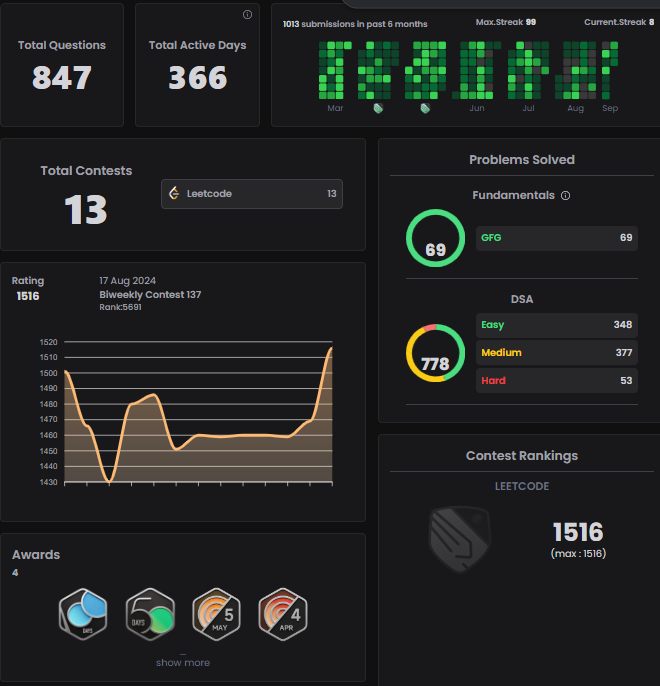
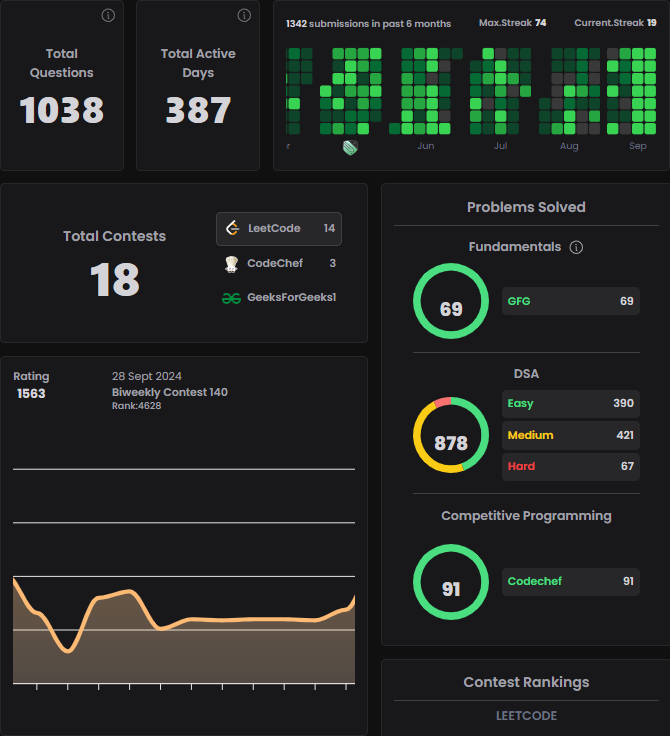
04-010-2024-003

diff --git a/src/Components/Works/WorkPage.jsx b/src/Components/Works/WorkPage.jsx
@@ -16,7 +16,7 @@ const WorkPage = () => {
           <CardsPage src={"./images/Works/educome.png"} gitHub={"https://github.com/Abhinavrajsrivastav/pacifics-path"} name={"Educome"} about={"A platform for engineers. Google Gemini Competition - 2024"} link={"https://abhinavrajsrivastav.github.io/pacifics-path/"} toolImg={["./FavIcon.png"]} tech={["React", "GCP", "Gemini 1.5", "Firebase","MySql"]}  className="animated" />
           <CardsPage src={"./images/Works/AyodhayaDham.png"} gitHub={"https://github.com/Abhinavrajsrivastav/ADHM"} name={"Ayodhya Dham"} about={"Ayodhya Dham, is a tour guide website. Help you to make your Ayodhya visit comfortable and safe."} link={"https://ayodhyadham.vercel.app/"} toolImg={["react.png"]} tech={["React","Google cloud console","Javascript"]}/>
           <CardsPage src={"./images/Works/hindi.png"} gitHub={"https://github.com/Abhinavrajsrivastav/React-Projects/tree/master/Musics/hinlish"} name={"HindLish"} about={"Hindlish, is a Musics player with some of the best Hindi and English songs"} link={"https://healsync.onrender.com/"} toolImg={["react.png"]} tech={["React"]}/>
-          <CardsPage src={"./images/Works/EduCloud.png"} gitHub={"https://github.com/Abhinavrajsrivastav/cloud-octo-eureka"} name={"EduCloud"} about={"A Cloud Based Solution For Your All Works."} link={""} toolImg={["react.png", "leaf.png"]} tech={["React","Spring Boot"]}/>
+          <CardsPage src={"./images/Works/columbae.png"} gitHub={"https://github.com/Abhinavrajsrivastav/cloud-octo-eureka"} name={"Columbae"} about={"An Interview Dashboard...working"} link={""} toolImg={["react.png", "leaf.png"]} tech={["React","Spring Boot"]}/>
           <CardsPage src={"./images/Works/yts.png"} gitHub={"https://github.com/Abhinavrajsrivastav/SpringBootProjects/tree/main/moviefinder"} name={"Movie Finder"} about={"Improving YouTube-Search Search Responses, Enhance user experiences"} link={"https://www.linkedin.com/posts/abhinav-raj-srivastav-599aaa1b2_springboot-javascripts-java-activity-7155206688197758977-9tIt?utm_source=share&utm_medium=member_desktop"} toolImg={["react.png", "leaf.png"]} tech={["React","Spring Boot"]}/>
           <CardsPage src={"./images/Works/gemini.png"} gitHub={"https://github.com/Abhinavrajsrivastav/SpringBootProjects/tree/main/OpenAi"} name={"Gemini Ai Clone"} about={"UI and functionality Google Gemini clone"} link={"https://clone-gemini.vercel.app/"} toolImg={["chat-gpt.png", "react.png", "leaf.png"]} tech={["React","Spring Boot"]}/>
           <CardsPage src={"./images/Works/Better_Health.png"} gitHub={"https://github.com/Abhinavrajsrivastav/Multi-Step-Forms"} name={"Better Health"} about={"Get a quick with health checkup with, Quiz App."} link={"http://quiz-app-health-01.s3-website.ap-south-1.amazonaws.com/"} toolImg={["react.png"]} tech={["React"]}/>

diff --git a/src/Components/Home/Home.css b/src/Components/Home/Home.css
@@ -81,7 +81,7 @@
 .Profession p {
   padding: 5px;
   font-size: 13px;
-  background-color: #1174aa;
+  background-color: #3169f6f7;
   border-radius: 2px;
 }
 
@@ -127,7 +127,7 @@
   border: none;
   color: #fff;
   cursor: pointer;
-  background-color: #1174aa;
+  background-color: #3169f6f7;
   transition: all 0.2s ease;
 
 }
@@ -152,13 +152,13 @@
   top: -70%;
   background-image: radial-gradient(circle, rgb(9, 55, 135) 20%, transparent 20%),
     radial-gradient(circle, transparent 20%, rgb(4, 33, 78) 20%, transparent 30%),
-    radial-gradient(circle, rgb(6, 79, 119) 20%, transparent 20%),
-    radial-gradient(circle, rgb(21, 43, 142) 20%, transparent 20%),
-    radial-gradient(circle, transparent 10%, rgb(14, 73, 140) 15%, transparent 20%),
-    radial-gradient(circle, rgb(18, 95, 202) 20%, transparent 20%),
-    radial-gradient(circle, rgb(18, 85, 202) 20%, transparent 20%),
-    radial-gradient(circle, rgb(18, 89, 202) 20%, transparent 20%),
-    radial-gradient(circle, rgb(18, 85, 202) 20%, transparent 20%);
+    radial-gradient(circle, rgb(34, 65, 223) 20%, transparent 20%),
+    radial-gradient(circle, rgb(13, 36, 140) 20%, transparent 20%),
+    radial-gradient(circle, transparent 10%, rgb(14, 45, 140) 15%, transparent 20%),
+    radial-gradient(circle, rgb(7, 34, 171) 20%, transparent 20%),
+    radial-gradient(circle, rgb(1, 21, 137) 20%, transparent 20%),
+    radial-gradient(circle, rgb(7, 22, 152) 20%, transparent 20%),
+    radial-gradient(circle, rgb(8, 26, 113) 20%, transparent 20%);
   background-size: 10% 10%, 20% 20%, 15% 15%, 20% 20%, 18% 18%, 10% 10%, 15% 15%,
     10% 10%, 18% 18%;
   background-position: 50% 120%;

diff --git a/src/Data/AchiementData.jsx b/src/Data/AchiementData.jsx
@@ -7,7 +7,7 @@ const AchiementData = () => {
             gitHub: "",
             org: "",
             name: "Leetcode",
-            about: "Rating 1516+ ✨",
+            about: "Rating 1564+ ✨",
             link: "https://leetcode.com/Abhinav254/",
             techs: ["Java", "DSA", "Competitive Programming", "C", "Coding Contest"]
         },
@@ -34,7 +34,7 @@ const AchiementData = () => {
             gitHub: "",
             org: "",
             name: "GeeksForGeeks",
-            about: "🏆 Institution Rank 27 | 1615+ Rating | 3 ⭐",
+            about: "🏆 Institution Rank 27 | 1670+ Rating | 3 ⭐",
             link: "https://auth.geeksforgeeks.org/user/abhirajsrivast254",
             techs: ["Java", "DSA", "Competitive Programming", "C", "Coding Contest"]
         },
@@ -48,11 +48,11 @@ const AchiementData = () => {
             techs: ["Java", "DSA", "Competitive Programming", "C", "Problem Solving", "SQL", "Python"]
         },
         {
-            src: "./images/Achivements/leetcode100days.png",
+            src: "./images/Achivements/leetcode200days.png",
             gitHub: "",
             org: "",
             name: "Letcode Badge",
-            about: "First 100 Days at Leetcode ✨",
+            about: "First 200 Days at Leetcode ✨",
             link: "https://leetcode.com/Abhinav254/",
             techs: ["Java", "DSA", "Competitive Programming", "Coding Contest"]
         },

diff --git a/src/Components/Skills/Skills.jsx b/src/Components/Skills/Skills.jsx
@@ -66,15 +66,15 @@ function Skills() {
         </div>
 
         {/* Programming Achievements */}
-        <div className="skills-category">
+        {/* <div className="skills-category">
           <h3>Programming Achievements</h3>
           <ul>
-            <li>LeetCode Max Rating: 1516, 300 Problems Solved</li>
+            <li>LeetCode Max Rating: 1564, 300 Problems Solved</li>
             <li>Geeks for Geeks Rank: 27th, 80+ Days of Challenges</li>
             <li>Open Source Contributions: 1100+ Commits, 49+ Repositories</li>
             <li>800+ Competitive Programming Problems Solved</li>
           </ul>
-        </div>
+        </div> */}
 
       </div>
     </section>

diff --git a/src/Components/Vlogs/Vlogs.css b/src/Components/Vlogs/Vlogs.css
@@ -39,7 +39,7 @@
 }
 
 .Vlog-Text span{
-  color: rgb(8, 64, 103);
+  color: rgb(8, 29, 103);
 }
 
 .Vlog-Cards {
@@ -72,7 +72,7 @@
   left: 0;
   display: block;
   border-radius: 50px;
-  background: rgb(8, 64, 103);
+  background: rgb(8, 41, 103);
   width: 56px;
   height: 56px;
   transition: all 0.3s ease;
@@ -91,7 +91,7 @@
   fill: none;
   stroke-linecap: round;
   stroke-linejoin: round;
-  stroke: rgb(8, 64, 103);
+  stroke: rgb(8, 32, 103);
   stroke-width: 2;
   transform: translateX(-5px);
   transition: all 0.3s ease;
@@ -99,7 +99,7 @@
 
 .Vlog-cta:hover:before {
   width: 100%;
-  background: rgb(8, 64, 103);
+  background: rgb(8, 44, 103);
 }
 
 .Vlog-cta:hover svg {

diff --git a/src/Components/Works/Work.css b/src/Components/Works/Work.css
@@ -39,7 +39,7 @@
 }
 
 .Text span{
-  color: rgb(18, 197, 202);
+  color: rgb(18, 95, 202);
 }
 
 .Cards {
@@ -72,7 +72,7 @@
   left: 0;
   display: block;
   border-radius: 50px;
-  background: rgb(47 110 145);
+  background: rgb(22, 55, 175);
   width: 56px;
   height: 56px;
   transition: all 0.3s ease;
@@ -91,7 +91,7 @@
   fill: none;
   stroke-linecap: round;
   stroke-linejoin: round;
-  stroke: #234567;
+  stroke: #2032ab;
   stroke-width: 2;
   transform: translateX(-5px);
   transition: all 0.3s ease;
@@ -99,7 +99,7 @@
 
 .cta:hover:before {
   width: 100%;
-  background: rgb(47 110 145);
+  background: rgb(28, 74, 166);
 }
 
 .cta:hover svg {

diff --git a/src/Components/OpenSource/OpenSource.css b/src/Components/OpenSource/OpenSource.css
@@ -34,7 +34,7 @@
 }
 
 .Point{
- color: rgb(8, 64, 103);
+ color: rgb(8, 22, 103);
 }
 
 
@@ -58,7 +58,7 @@
   left: 0;
   display: block;
   border-radius: 50px;
-  background: rgb(8, 64, 103);
+  background: rgb(8, 32, 103);
   width: 56px;
   height: 56px;
   transition: all 0.3s ease;
@@ -77,7 +77,7 @@
   fill: none;
   stroke-linecap: round;
   stroke-linejoin: round;
-  stroke: rgb(8, 64, 103);
+  stroke: rgb(8, 44, 103);
   stroke-width: 2;
   transform: translateX(-5px);
   transition: all 0.3s ease;
@@ -85,7 +85,7 @@
 
 .cta:hover:before {
   width: 100%;
-  background: rgb(8, 64, 103);
+  background: rgb(8, 37, 103);
 }
 
 .cta:hover svg {

diff --git a/public/index.css b/public/index.css
@@ -14,10 +14,10 @@ body{
 }
 
 :root{
-  --bg-color: #0e203af7;
-  --bg-hover-color: #112a42f7;
-  --text-color: #1174aa;
-  --text-hover-color: rgb(14, 83, 149);
-  --card-color: #0b3c5af7;
-  --Achievent-color: #097d2df7;
+  --bg-color: #0d1b4df7;
+  --bg-hover-color: #3169f6f7;
+  --text-color: #3167fb;
+  --text-hover-color: rgb(42, 101, 249);
+  --card-color: #122365f7;
+  --Achievent-color: #092c7df7;
 }

diff --git a/src/Components/Skills/Skills.css b/src/Components/Skills/Skills.css
@@ -58,7 +58,7 @@
 /* Adding blue tick */
 .skills-category ul li::before {
   content: "✔"; /* Unicode character for check mark */
-  color: rgb(255, 170, 0); /* Blue color for the tick */
+  color: rgb(42, 98, 252); /* Blue color for the tick */
   position: absolute; /* Positioning the tick */
   left: 0; /* Aligns the tick to the left */
   top: 0; /* Aligns the tick with the top of the list item */

diff --git a/src/Components/NavBar/NavBar.css b/src/Components/NavBar/NavBar.css
@@ -70,7 +70,7 @@ body {
 
 .Navigation .N p {
   margin: 0;
-  color: #32a6e9;
+  color: #3169f6f7;
   font-size: 20px;
 }
 
@@ -82,7 +82,7 @@ body {
 }
 
 .Navigation .N a:hover {
-  color: #32a6e9;
+  color: #3169f6f7;
 }
 
 /* Theme toggle icon */

diff --git a/src/Components/Achivements/AchivementsCard/Certifications.css b/src/Components/Achivements/AchivementsCard/Certifications.css
@@ -81,7 +81,7 @@
 
 .org {
   font-weight: bold;
-  color: green;
+  color: rgb(255, 255, 255);
   font-size: 13px;
   border-radius: 5px;
 }
